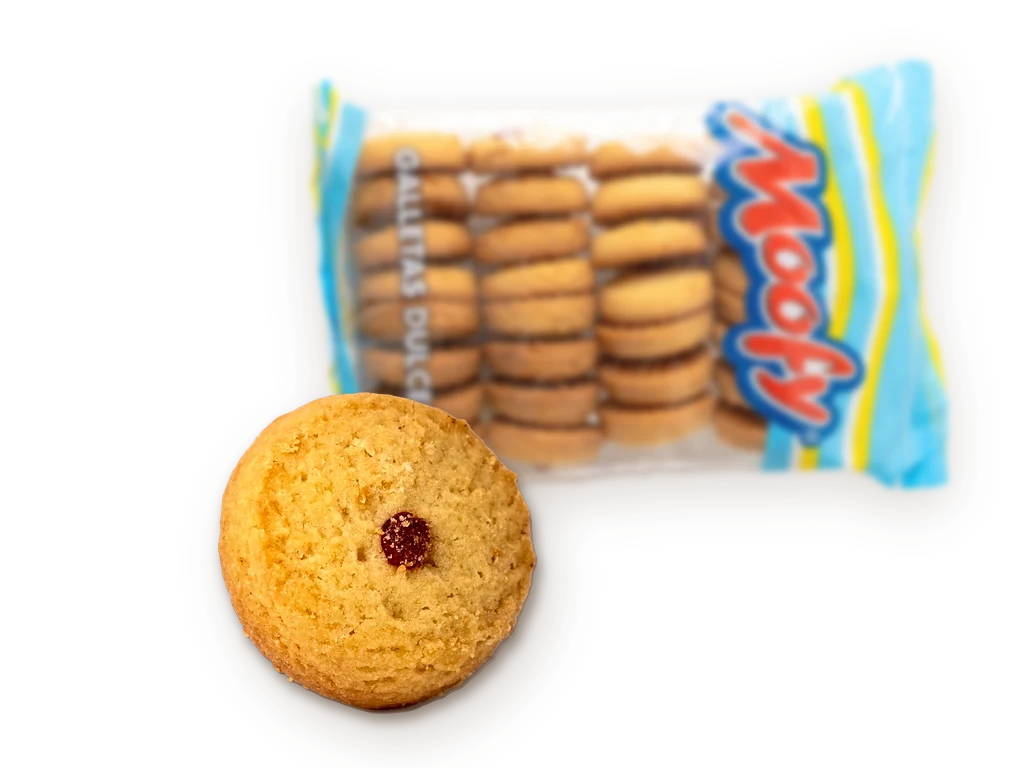
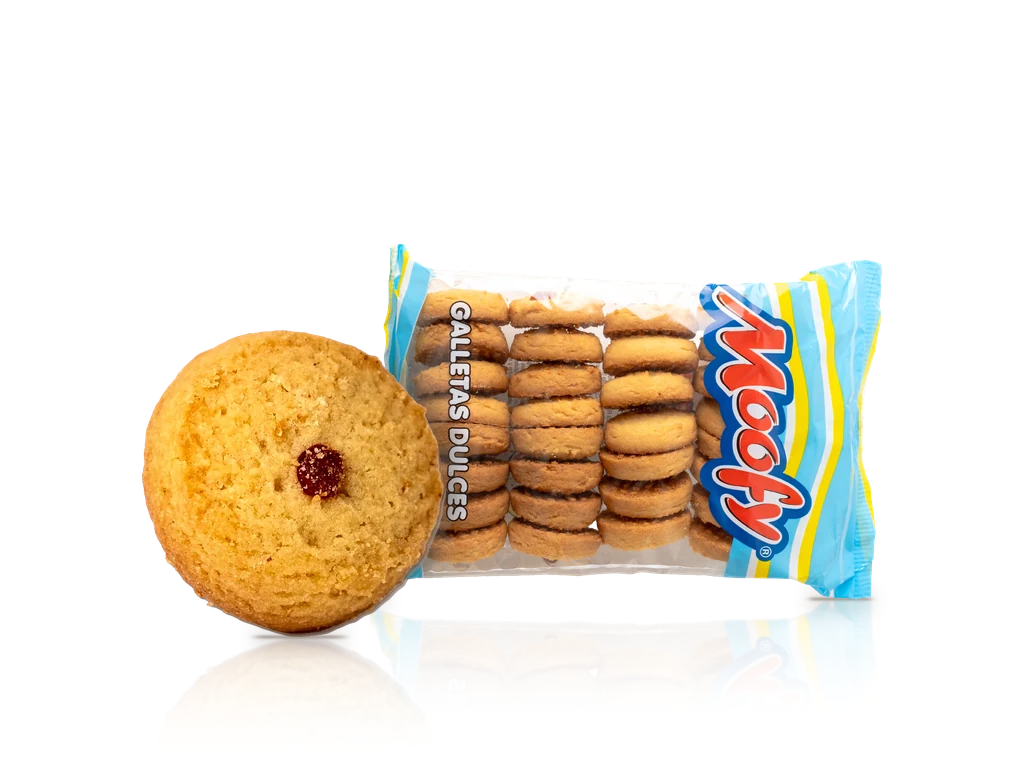
Componer cada producto junto a su empaque, nítidos y al mismo peso
El empaque desenfocado se rechazó: el empaque es parte del producto y
tiene que leerse igual que la pieza. Ahora cada foto es un packshot de
estudio: el empaque de pie y nítido (la foto cenital de la bolsa es su
vista frontal, sin deformarla) y la pieza al lado, montando apenas su
borde para que el nombre y el logo se lean completos.

Los une un mismo suelo: sombra de contacto, un reflejo suave como de
acrílico y la sombra de la pieza proyectada sobre el empaque, con una
sola luz. Las piezas planas van de pie y las fotografiadas en ángulo,
sentadas. Todo sale de los recortes del catálogo oficial.

diff --git a/libs/moofy/frontend/shared/src/lib/data/site.ts b/libs/moofy/frontend/shared/src/lib/data/site.ts
@@ -144,7 +144,7 @@ export const LINEAS = {
       productos: ['Palmeritas', 'Costilla con guayaba', 'Empanadas'],
       ideal: 'Cafeterías · Hoteles',
       imagen: 'img/productos/palmeritas.webp',
-      alt: 'Palmerita azucarada de hojaldre, delante de su bolsa Moofy.',
+      alt: 'Palmerita azucarada de hojaldre, junto a su bolsa Moofy.',
     },
     {
       id: 'gatos',
@@ -153,7 +153,7 @@ export const LINEAS = {
       productos: ['Choco gatos', 'Gatos de piña', 'Gatos de guayaba'],
       ideal: 'Supermercados · Conveniencia',
       imagen: 'img/productos/choco-gatos.webp',
-      alt: 'Choco gato relleno de dulce de leche, delante de su bolsa Moofy.',
+      alt: 'Choco gato relleno de dulce de leche, junto a su bolsa Moofy.',
     },
     {
       id: 'pasteleria',
@@ -162,7 +162,7 @@ export const LINEAS = {
       productos: ['Arrollado', 'Torta chilena', 'Quequito'],
       ideal: 'Cafeterías · Catering',
       imagen: 'img/productos/torta-chilena.webp',
-      alt: 'Porción de torta chilena con dulce de leche, delante de su empaque Moofy.',
+      alt: 'Porción de torta chilena con dulce de leche, junto a su empaque Moofy.',
     },
     {
       id: 'panaderia-dulce',
@@ -171,7 +171,7 @@ export const LINEAS = {
       productos: ['Rollitos de canela', 'Media luna'],
       ideal: 'Hoteles · Cafeterías',
       imagen: 'img/productos/rollitos-canela.webp',
-      alt: 'Rollito de canela glaseado, delante de su caja Moofy.',
+      alt: 'Rollito de canela glaseado, junto a su caja Moofy.',
     },
     {
       id: 'galleteria',
@@ -180,7 +180,7 @@ export const LINEAS = {
       productos: ['Julietas', 'Choco chip y avena', 'Galletas Pan', 'Bizcotela'],
       ideal: 'Supermercados · Vending',
       imagen: 'img/productos/julietas.webp',
-      alt: 'Galleta dulce tipo Julieta con su punto de guayaba, delante de su bolsa Moofy.',
+      alt: 'Galleta dulce tipo Julieta con su punto de guayaba, junto a su bolsa Moofy.',
     },
     {
       id: 'salados',
@@ -189,7 +189,7 @@ export const LINEAS = {
       productos: ['Palitos de queso', 'Rosquillas', 'Grissines', 'Bizcochos de maíz', 'Bizcochos de guayaba'],
       ideal: 'Conveniencia · Vending',
       imagen: 'img/productos/palitos-queso.webp',
-      alt: 'Palito casero con queso, delante de su bolsa Moofy.',
+      alt: 'Palito casero con queso, junto a su bolsa Moofy.',
     },
   ],
 } as const;
@@ -205,7 +205,7 @@ export interface Producto {
   /** Resumen de la ficha del catálogo; null si la del catálogo no sirve. */
   readonly descripcion: string | null;
   readonly atributos: readonly string[];
-  /** La pieza delante de su empaque, sin fondo; null si el catálogo no trae foto. */
+  /** La pieza junto a su empaque, sin fondo; null si el catálogo no trae foto. */
   readonly imagen: string | null;
   readonly alt: string;
 }
@@ -224,7 +224,7 @@ export const PRODUCTOS: readonly Producto[] = [
     descripcion: 'Crujientes y doraditas, de capas hojaldradas ligeras con el toque dulce justo.',
     atributos: ['Crujiente y ligera', 'Capas hojaldradas'],
     imagen: 'img/productos/palmeritas.webp',
-    alt: 'Palmerita azucarada, delante de su bolsa Moofy.',
+    alt: 'Palmerita azucarada, junto a su bolsa Moofy.',
   },
   {
     id: 'costilla-guayaba',
@@ -234,7 +234,7 @@ export const PRODUCTOS: readonly Producto[] = [
     descripcion: 'Dorada y crujiente, con un toque de azúcar y un relleno generoso de guayaba.',
     atributos: ['Crocante', 'Centro suave'],
     imagen: 'img/productos/costilla-guayaba.webp',
-    alt: 'Costilla de hojaldre rellena de guayaba, delante de su bolsa Moofy.',
+    alt: 'Costilla de hojaldre rellena de guayaba, junto a su bolsa Moofy.',
   },
   {
     id: 'empanadas',
@@ -254,7 +254,7 @@ export const PRODUCTOS: readonly Producto[] = [
     descripcion: 'Suaves, con aroma a chocolate y un relleno de dulce de leche.',
     atributos: ['Suave y esponjoso', 'Relleno cremoso'],
     imagen: 'img/productos/choco-gatos.webp',
-    alt: 'Choco gato relleno de dulce de leche, delante de su bolsa Moofy.',
+    alt: 'Choco gato relleno de dulce de leche, junto a su bolsa Moofy.',
   },
   {
     id: 'gatos-pina',
@@ -264,7 +264,7 @@ export const PRODUCTOS: readonly Producto[] = [
     descripcion: 'Suaves y esponjosos, con un relleno de piña de sabor fresco.',
     atributos: ['Suave y esponjoso', 'Relleno frutal'],
     imagen: 'img/productos/gatos-pina.webp',
-    alt: 'Gato relleno de piña, delante de su bolsa Moofy.',
+    alt: 'Gato relleno de piña, junto a su bolsa Moofy.',
   },
   {
     id: 'gatos-guayaba',
@@ -274,7 +274,7 @@ export const PRODUCTOS: readonly Producto[] = [
     descripcion: 'Tiernos y suaves, con un relleno de guayaba de sabor intenso.',
     atributos: ['Suave y ligero', 'Sabor tropical'],
     imagen: 'img/productos/gatos-guayaba.webp',
-    alt: 'Gato relleno de guayaba, delante de su bolsa Moofy.',
+    alt: 'Gato relleno de guayaba, junto a su bolsa Moofy.',
   },
   {
     id: 'arrollado',
@@ -284,7 +284,7 @@ export const PRODUCTOS: readonly Producto[] = [
     descripcion: 'Esponjoso y ligero, con una generosa capa de dulce de leche.',
     atributos: ['Ligero y esponjoso', 'Relleno dulce'],
     imagen: 'img/productos/arrollado.webp',
-    alt: 'Rodaja de arrollado con dulce de leche, delante de su bolsa Moofy.',
+    alt: 'Rodaja de arrollado con dulce de leche, junto a su bolsa Moofy.',
   },
   {
     id: 'torta-chilena',
@@ -294,7 +294,7 @@ export const PRODUCTOS: readonly Producto[] = [
     descripcion: 'Capas finas con un relleno generoso de dulce de leche.',
     atributos: ['Capas finas', 'Relleno abundante'],
     imagen: 'img/productos/torta-chilena.webp',
-    alt: 'Porción de torta chilena, delante de su empaque Moofy.',
+    alt: 'Porción de torta chilena, junto a su empaque Moofy.',
   },
   {
     id: 'quequito',
@@ -304,7 +304,7 @@ export const PRODUCTOS: readonly Producto[] = [
     descripcion: null,
     atributos: ['Esponjoso', 'Dulce'],
     imagen: 'img/productos/quequito.webp',
-    alt: 'Quequito de vainilla, delante de su bolsa Moofy.',
+    alt: 'Quequito de vainilla, junto a su bolsa Moofy.',
   },
   {
     id: 'rollitos-canela',
@@ -314,7 +314,7 @@ export const PRODUCTOS: readonly Producto[] = [
     descripcion: 'Doraditos y suaves, con ese aroma a canela que despierta el antojo.',
     atributos: ['Suave', 'Dulce'],
     imagen: 'img/productos/rollitos-canela.webp',
-    alt: 'Rollito de canela glaseado, delante de su caja Moofy.',
+    alt: 'Rollito de canela glaseado, junto a su caja Moofy.',
   },
   {
     id: 'media-luna',
@@ -334,7 +334,7 @@ export const PRODUCTOS: readonly Producto[] = [
     descripcion: 'Crujientes por fuera, se deshacen en la boca y llevan un punto de guayaba.',
     atributos: ['Dulzor suave', 'Toque frutal'],
     imagen: 'img/productos/julietas.webp',
-    alt: 'Galleta tipo Julieta, delante de su bolsa Moofy.',
+    alt: 'Galleta tipo Julieta, junto a su bolsa Moofy.',
   },
   {
     id: 'choco-chip-avena',
@@ -374,7 +374,7 @@ export const PRODUCTOS: readonly Producto[] = [
     descripcion: 'Crujientes y ligeros, con el sabor del queso en cada mordida.',
     atributos: ['Crocante', 'Ligero'],
     imagen: 'img/productos/palitos-queso.webp',
-    alt: 'Palito casero con queso, delante de su bolsa Moofy.',
+    alt: 'Palito casero con queso, junto a su bolsa Moofy.',
   },
   {
     id: 'rosquillas',
@@ -414,7 +414,7 @@ export const PRODUCTOS: readonly Producto[] = [
     descripcion: 'Suaves y dulces, con un relleno de guayaba.',
     atributos: ['Suave', 'Relleno dulce'],
     imagen: 'img/productos/bizcochos-guayaba.webp',
-    alt: 'Bizcocho relleno de guayaba, delante de su caja Moofy.',
+    alt: 'Bizcocho relleno de guayaba, junto a su caja Moofy.',
   },
 ];
 

diff --git a/libs/moofy/frontend/inicio/src/lib/sections/lineas/lineas.scss b/libs/moofy/frontend/inicio/src/lib/sections/lineas/lineas.scss
@@ -128,7 +128,7 @@
   /* En absoluto: con la imagen en el flujo, su alto intrínseco (vertical,
      2:3) gana al aspect-ratio del marco, porque overflow: clip no anula
      el min-height: auto. */
-  /* La foto es la pieza delante de su empaque, sin fondo: se
+  /* La foto es la pieza junto a su empaque, sin fondo: se
      ve entera en cualquier proporción del marco, sobre el papel del
      estudio y por debajo de las insignias. */
   img {
